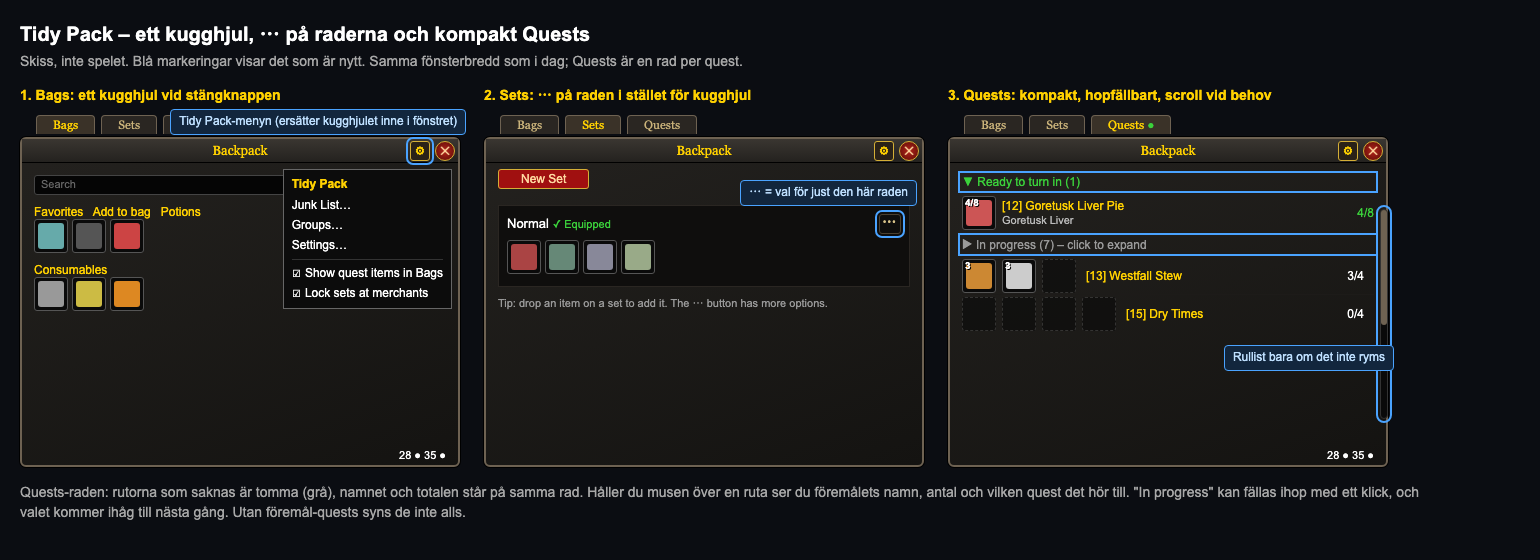
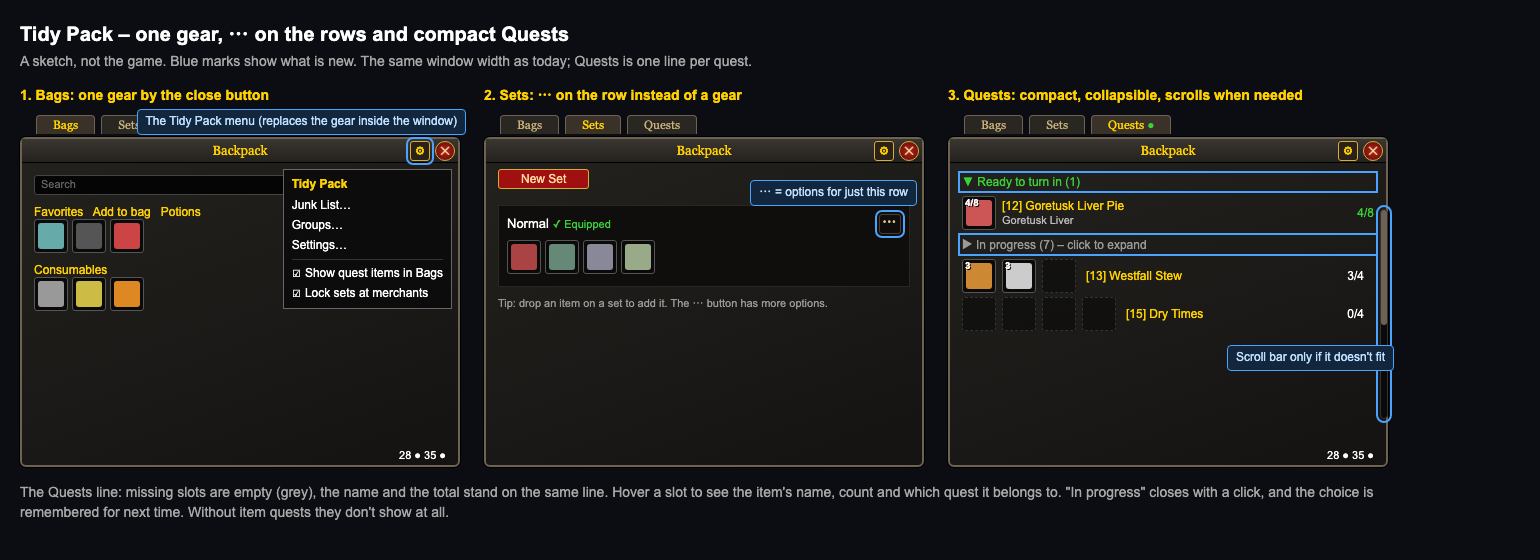
Translate .design/sketch-header-quests-compact to English (#7)

diff --git a/.design/sketch-header-quests-compact.html b/.design/sketch-header-quests-compact.html
@@ -1,4 +1,4 @@
-<!DOCTYPE html><html lang="sv"><head><meta charset="utf-8"><title>Tidy Pack – skiss: kugghjul, radmeny och kompakt Quests</title>
+<!DOCTYPE html><html lang="en"><head><meta charset="utf-8"><title>Tidy Pack – sketch: gear, row menu and compact Quests</title>
 <style>
 :root{--g:#ffd100;--w:#fff;--gr:#808080;--ok:#3bd13b}
 *{box-sizing:border-box}
@@ -35,14 +35,14 @@ h1{font-size:20px;margin:0 0 4px;color:#fff}.n{color:#a8a8a8;margin:0 0 14px}
 .ft{position:absolute;bottom:4px;right:12px;font:11px Arial;color:#fff}
 .wrap{position:relative;padding-top:26px}
 </style></head><body>
-<h1>Tidy Pack – ett kugghjul, ⋯ på raderna och kompakt Quests</h1>
-<p class="n">Skiss, inte spelet. Blå markeringar visar det som är nytt. Samma fönsterbredd som i dag; Quests är en rad per quest.</p>
+<h1>Tidy Pack – one gear, ⋯ on the rows and compact Quests</h1>
+<p class="n">A sketch, not the game. Blue marks show what is new. The same window width as today; Quests is one line per quest.</p>
 <div class="row">
 
-<div class="col"><h2>1. Bags: ett kugghjul vid stängknappen</h2><div class="wrap"><div class="bag" style="height:330px">
+<div class="col"><h2>1. Bags: one gear by the close button</h2><div class="wrap"><div class="bag" style="height:330px">
 <div class="tabs"><div class="tab on">Bags</div><div class="tab">Sets</div><div class="tab">Quests</div></div>
 <div class="title">Backpack</div><div class="gear hl">⚙</div><div class="close">✕</div>
-<div class="callout" style="right:-8px;top:-30px">Tidy Pack-menyn (ersätter kugghjulet inne i fönstret)</div>
+<div class="callout" style="right:-8px;top:-30px">The Tidy Pack menu (replaces the gear inside the window)</div>
 <div class="menu" style="right:6px;top:30px"><b style="color:#ffd100">Tidy Pack</b><span>Junk List…</span><span>Groups…</span><span>Settings…</span><hr><span>☑ Show quest items in Bags</span><span>☑ Lock sets at merchants</span></div>
 <div style="margin-top:6px;border:1px solid #444;height:20px;border-radius:3px;background:#050505;color:#666;font:11px Arial;padding:2px 6px;width:300px">Search</div>
 <div style="margin-top:10px;color:#ffd100;font:12px Arial">Favorites&nbsp;&nbsp;&nbsp;Add to bag&nbsp;&nbsp;&nbsp;Potions</div>
@@ -51,18 +51,18 @@ h1{font-size:20px;margin:0 0 4px;color:#fff}.n{color:#a8a8a8;margin:0 0 14px}
 <div class="sl"><i style="background:#999"></i></div><div class="sl"><i style="background:#cb4"></i></div><div class="sl"><i style="background:#d82"></i></div>
 <div class="ft">28 ● 35 ●</div></div></div></div>
 
-<div class="col"><h2>2. Sets: ⋯ på raden i stället för kugghjul</h2><div class="wrap"><div class="bag" style="height:330px">
+<div class="col"><h2>2. Sets: ⋯ on the row instead of a gear</h2><div class="wrap"><div class="bag" style="height:330px">
 <div class="tabs"><div class="tab">Bags</div><div class="tab on">Sets</div><div class="tab">Quests</div></div>
 <div class="title">Backpack</div><div class="gear">⚙</div><div class="close">✕</div>
 <div style="height:26px"><span style="background:#a01010;border:1px solid #d4af37;color:#ffd9a0;padding:2px 22px;font:12px Arial;border-radius:3px">New Set</span></div>
 <div class="set" style="margin-top:10px"><b style="color:#fff;font:13px Arial">Normal</b> <span style="color:#3bd13b;font:11px Arial">✓ Equipped</span><br>
 <div class="sl" style="margin-top:6px"><i style="background:#a44"></i></div><div class="sl" style="margin-top:6px"><i style="background:#687"></i></div><div class="sl" style="margin-top:6px"><i style="background:#889"></i></div><div class="sl" style="margin-top:6px"><i style="background:#9a8"></i></div>
 <div class="dots hl">⋯</div>
-<div class="callout" style="right:-8px;top:-26px">⋯ = val för just den här raden</div></div>
+<div class="callout" style="right:-8px;top:-26px">⋯ = options for just this row</div></div>
 <div style="color:#999;font:11px Arial">Tip: drop an item on a set to add it. The ⋯ button has more options.</div>
 </div></div></div>
 
-<div class="col"><h2>3. Quests: kompakt, hopfällbart, scroll vid behov</h2><div class="wrap"><div class="bag" style="height:330px">
+<div class="col"><h2>3. Quests: compact, collapsible, scrolls when needed</h2><div class="wrap"><div class="bag" style="height:330px">
 <div class="tabs"><div class="tab">Bags</div><div class="tab">Sets</div><div class="tab on">Quests <span style="color:#3bd13b">●</span></div></div>
 <div class="title">Backpack</div><div class="gear">⚙</div><div class="close">✕</div>
 <div class="sec ready hl"><span>▼ Ready to turn in (1)</span></div>
@@ -71,9 +71,9 @@ h1{font-size:20px;margin:0 0 4px;color:#fff}.n{color:#a8a8a8;margin:0 0 14px}
 <div class="qr"><div class="sl q" style="margin:0"><i style="background:#c83"></i><em>3</em></div><div class="sl q" style="margin:0"><i style="background:#ccc"></i><em>3</em></div><div class="sl ghost" style="margin:0"></div><div class="name" style="padding-left:4px">[13] Westfall Stew</div><div class="cnt" style="margin-right:10px">3/4</div></div>
 <div class="qr"><div class="sl ghost" style="margin:0"></div><div class="sl ghost" style="margin:0"></div><div class="sl ghost" style="margin:0"></div><div class="sl ghost" style="margin:0"></div><div class="name" style="padding-left:4px">[15] Dry Times</div><div class="cnt" style="margin-right:10px">0/4</div></div>
 <div class="sb hl"><i></i></div>
-<div class="callout" style="right:-8px;top:206px">Rullist bara om det inte ryms</div>
+<div class="callout" style="right:-8px;top:206px">Scroll bar only if it doesn't fit</div>
 <div class="ft">28 ● 35 ●</div></div></div></div>
 
 </div>
-<p class="n" style="margin-top:16px;max-width:1400px">Quests-raden: rutorna som saknas är tomma (grå), namnet och totalen står på samma rad. Håller du musen över en ruta ser du föremålets namn, antal och vilken quest det hör till. "In progress" kan fällas ihop med ett klick, och valet kommer ihåg till nästa gång. Utan föremål-quests syns de inte alls.</p>
+<p class="n" style="margin-top:16px;max-width:1400px">The Quests line: missing slots are empty (grey), the name and the total stand on the same line. Hover a slot to see the item's name, count and which quest it belongs to. "In progress" closes with a click, and the choice is remembered for next time. Without item quests they don't show at all.</p>
 </body></html>
